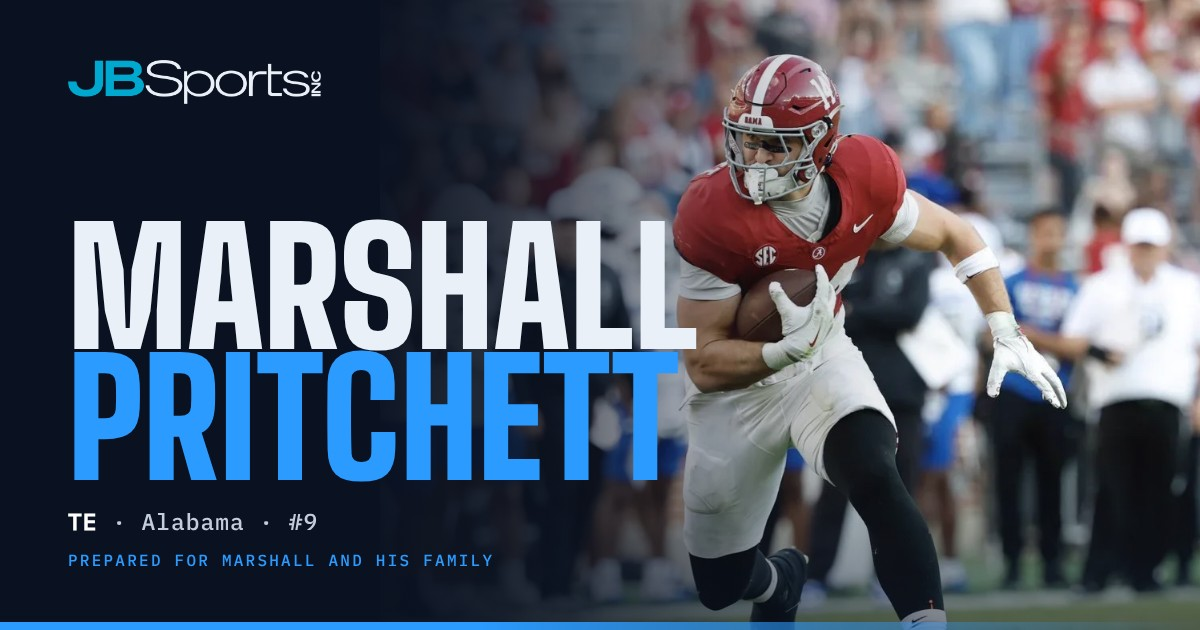
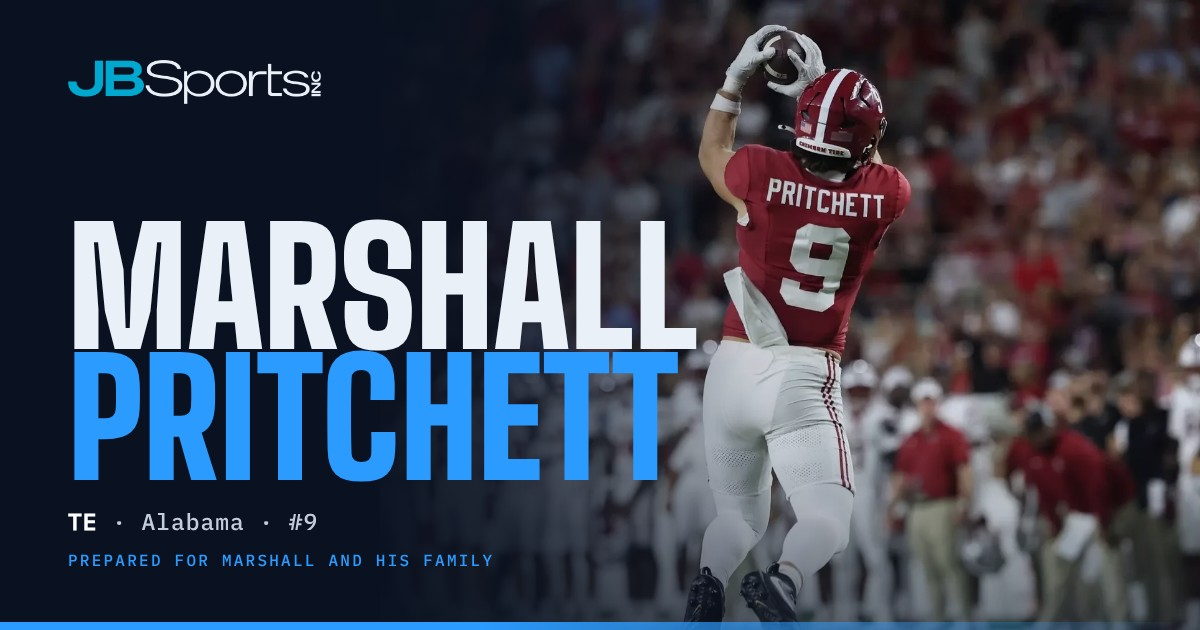
Pritchett: better photos (two new catches as hero and lead), small ones dropped, new share image; Keller and Lohavichan intros show Where you stand today
Claude-Session: https://claude.ai/code/session_0172xxUUuta7YMZ8RSHfaFkr

diff --git a/template.html b/template.html
@@ -598,7 +598,7 @@ section>.eyebrow::before{content:"";display:inline-block;width:18px;height:2px;b
 
   <!-- ===================== ATHLETE VIEW ===================== -->
   <div data-aud="athlete">
-  <section class="reveal">
+  <section class="reveal" id="field">
     <span class="eyebrow">01 · Jack's favorite plays</span>
     <h2 id="playsH">Three plays I'd put in front of every GM or TE coach</h2>
     <p class="lede muted">Updated as your season goes.</p>
